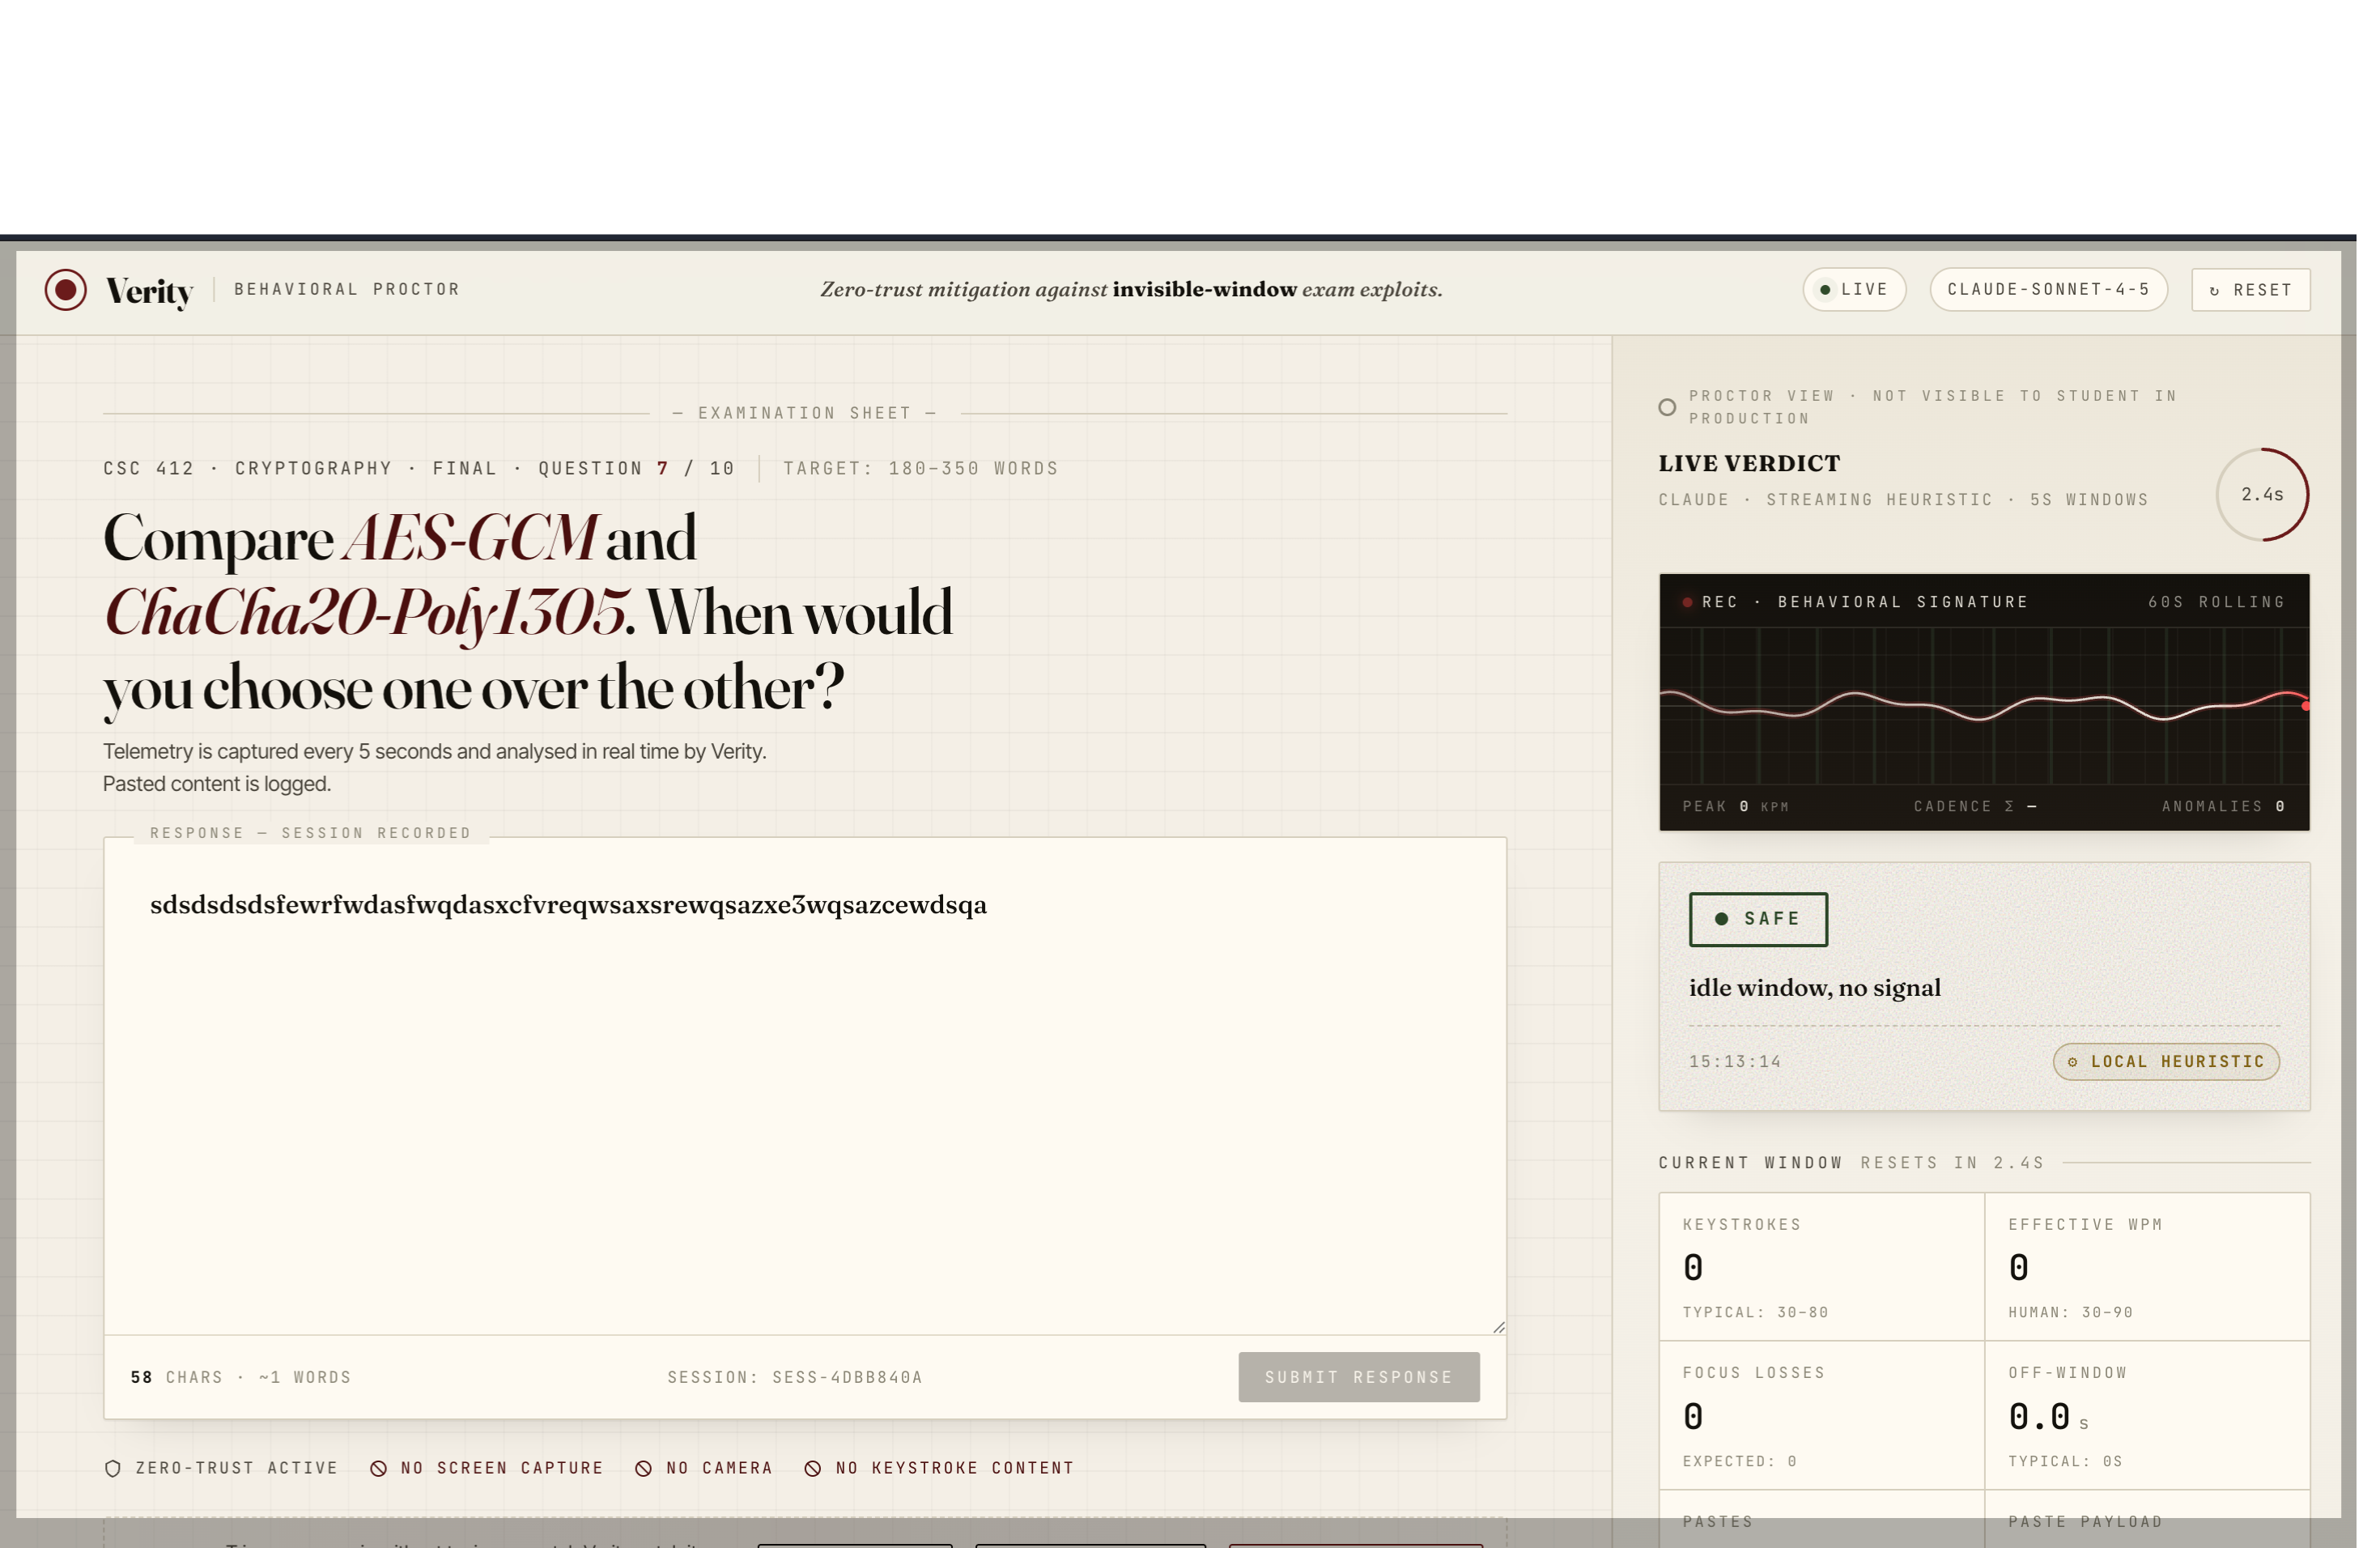
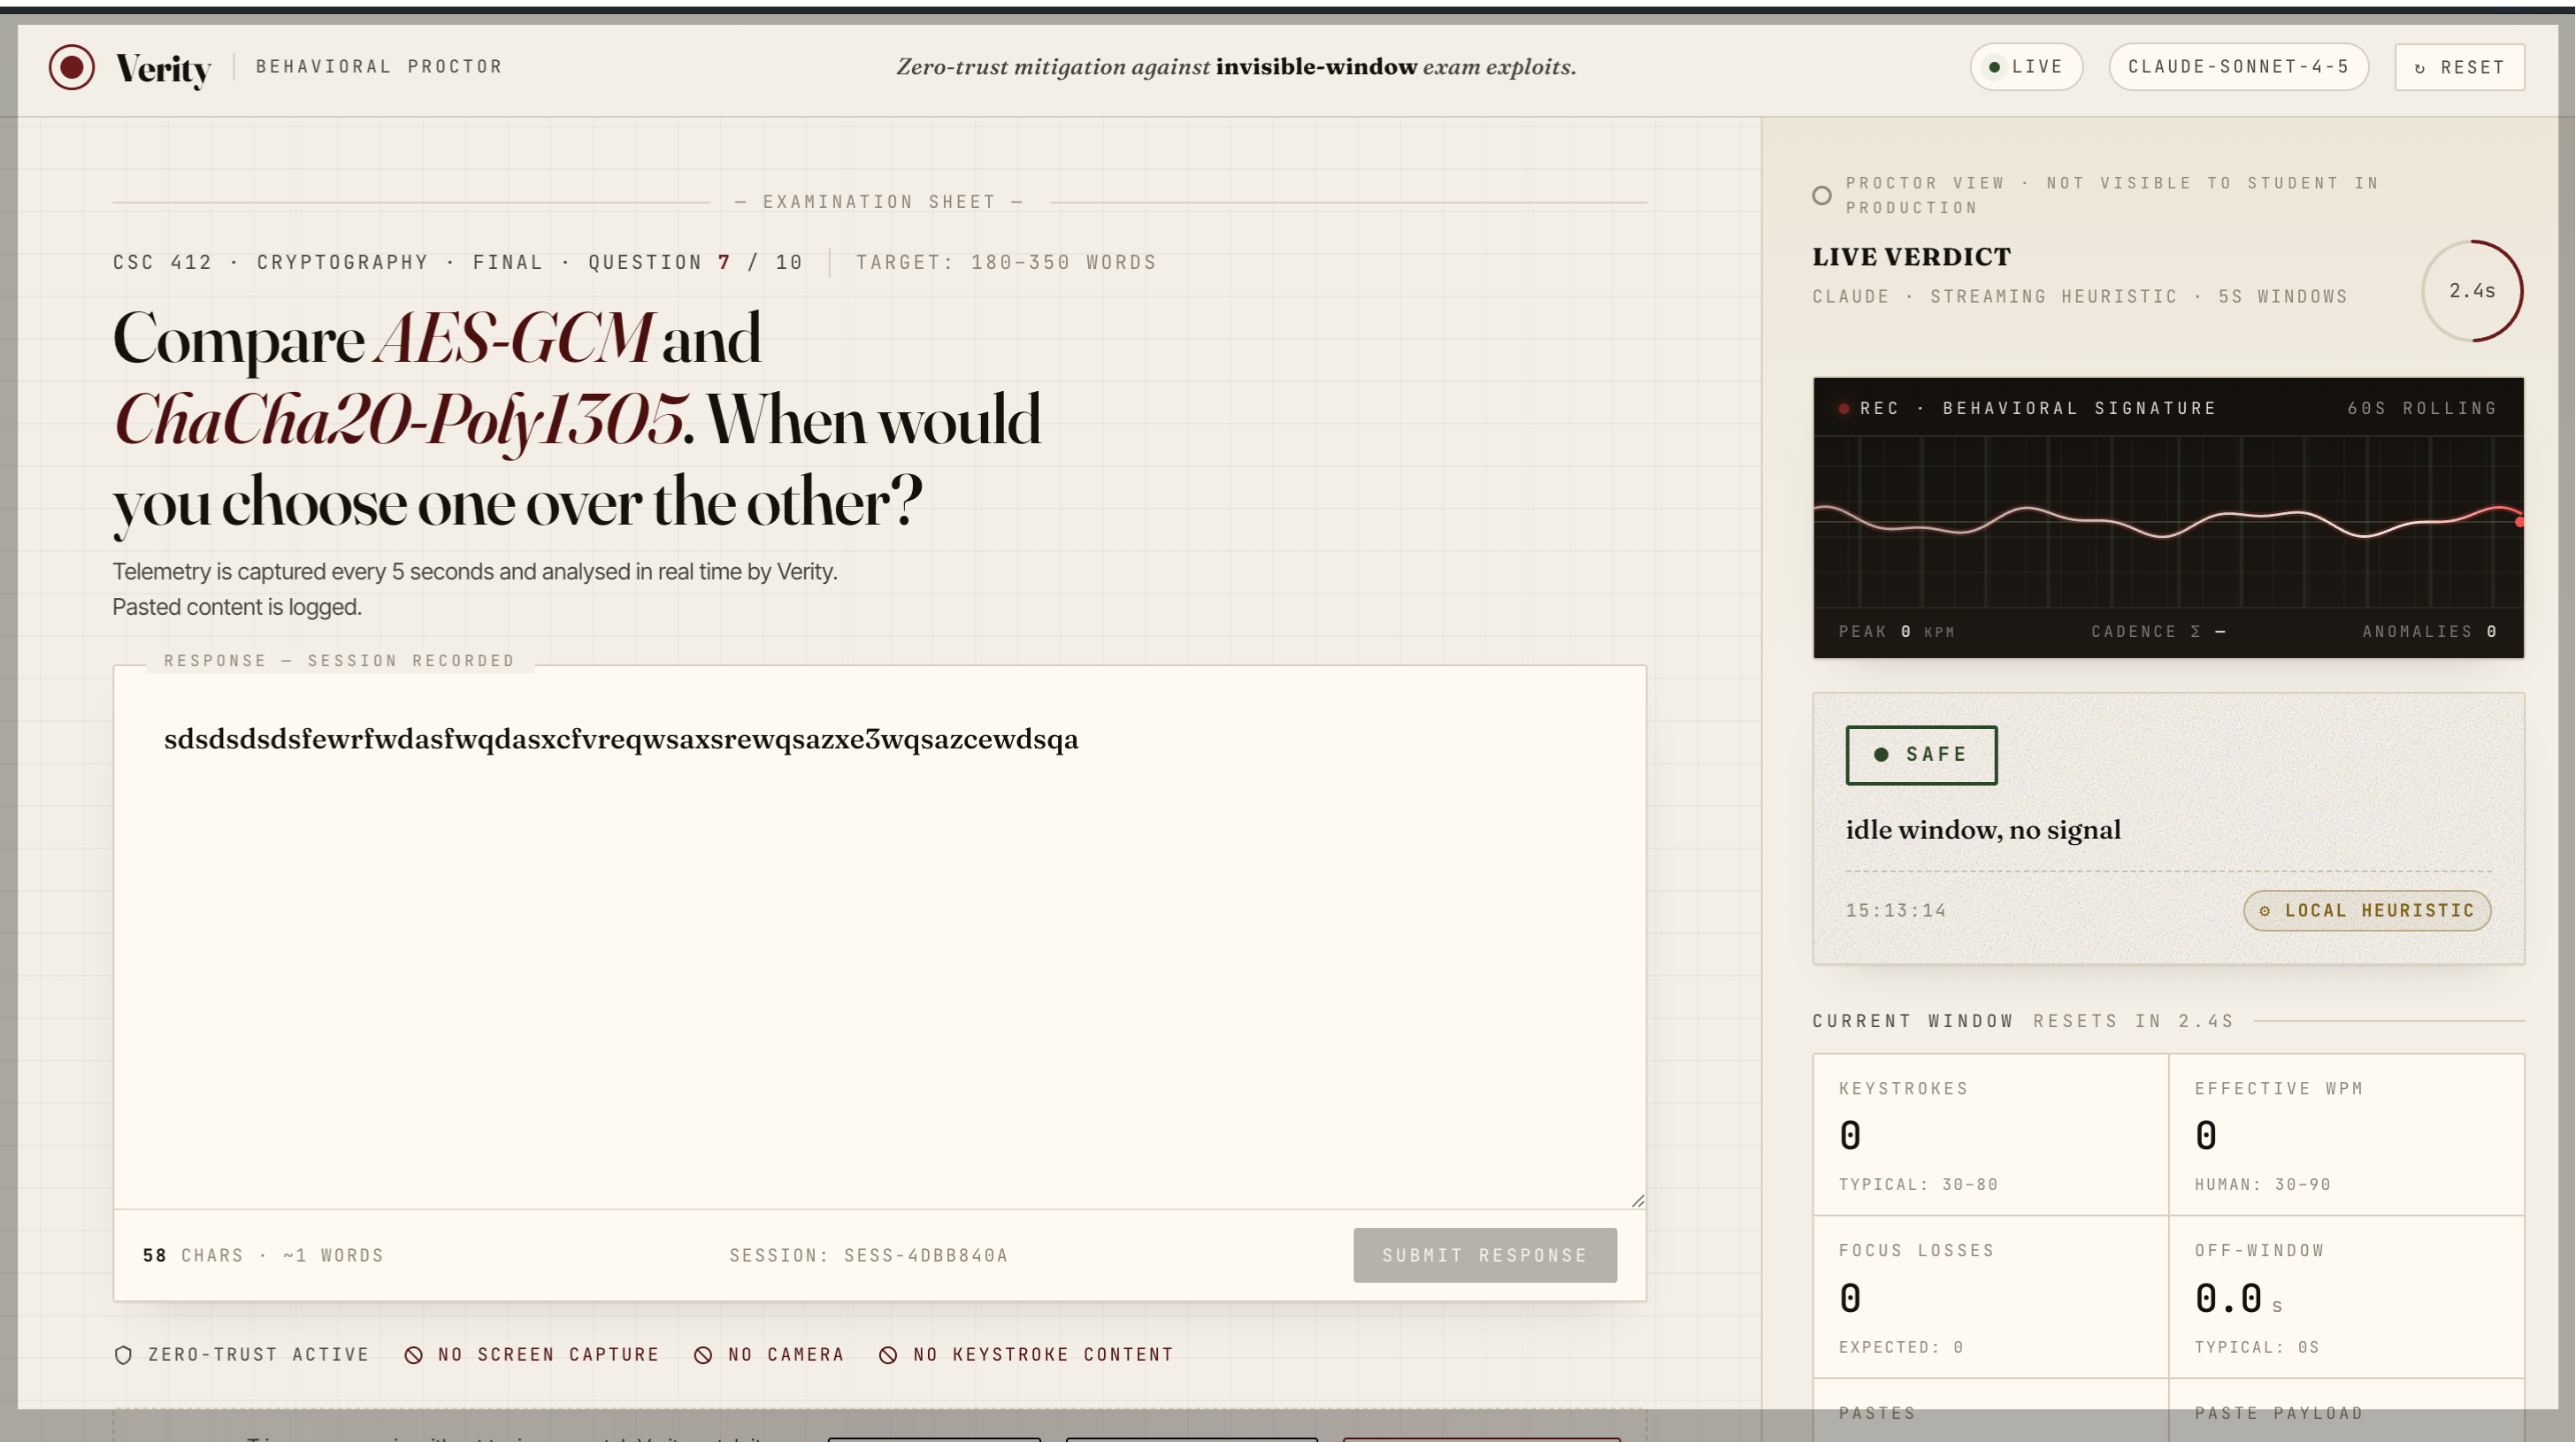
docs: update paper link + replace demo screenshot

Changed region(s): [[0.0, 0.0, 1.0, 1.0], [0.0625, 0.5828, 0.4062, 0.6135]]

diff --git a/public/index.html b/public/index.html
@@ -971,7 +971,7 @@
     </div>
     <div style="text-align:right">
       built by raouf · 2026<br>
-      <a href="https://raoufabedini.dev/invisible-window" target="_blank" rel="noopener">read the paper →</a>
+      <a href="https://raoufabedini.dev/projects/invisible-window-research" target="_blank" rel="noopener">read the paper →</a>
       &nbsp;·&nbsp;
       <a href="#" id="aboutLink">view system prompt →</a>
     </div>

diff --git a/README.md b/README.md
@@ -10,7 +10,9 @@ Detects cheating without ever looking at the screen.
 [![License](https://img.shields.io/badge/license-MIT-d6cfbe?style=flat-square)](#license)
 [![Status](https://img.shields.io/badge/status-research%20demo-2f4a2a?style=flat-square)](#status)
 
-*A working counter-measure to the macOS 26 "Invisible Window" exam-proctor exploit.*
+*A working counter-measure to the "Invisible Window" exam-proctor attack class.*
+
+**[Read the disclosure paper →](https://raoufabedini.dev/projects/invisible-window-research)**
 
 <br/>
 